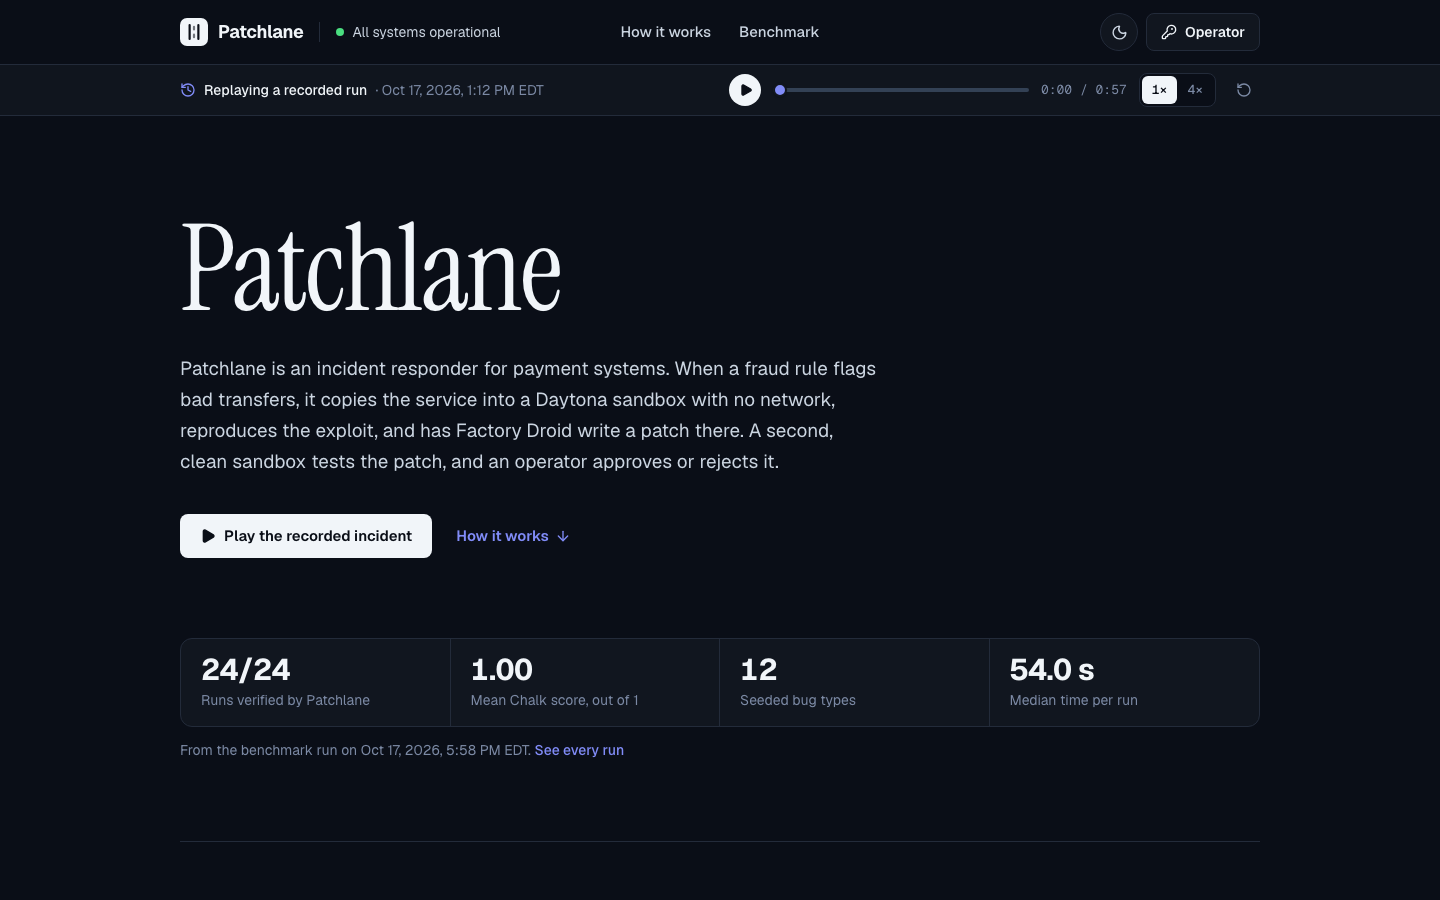
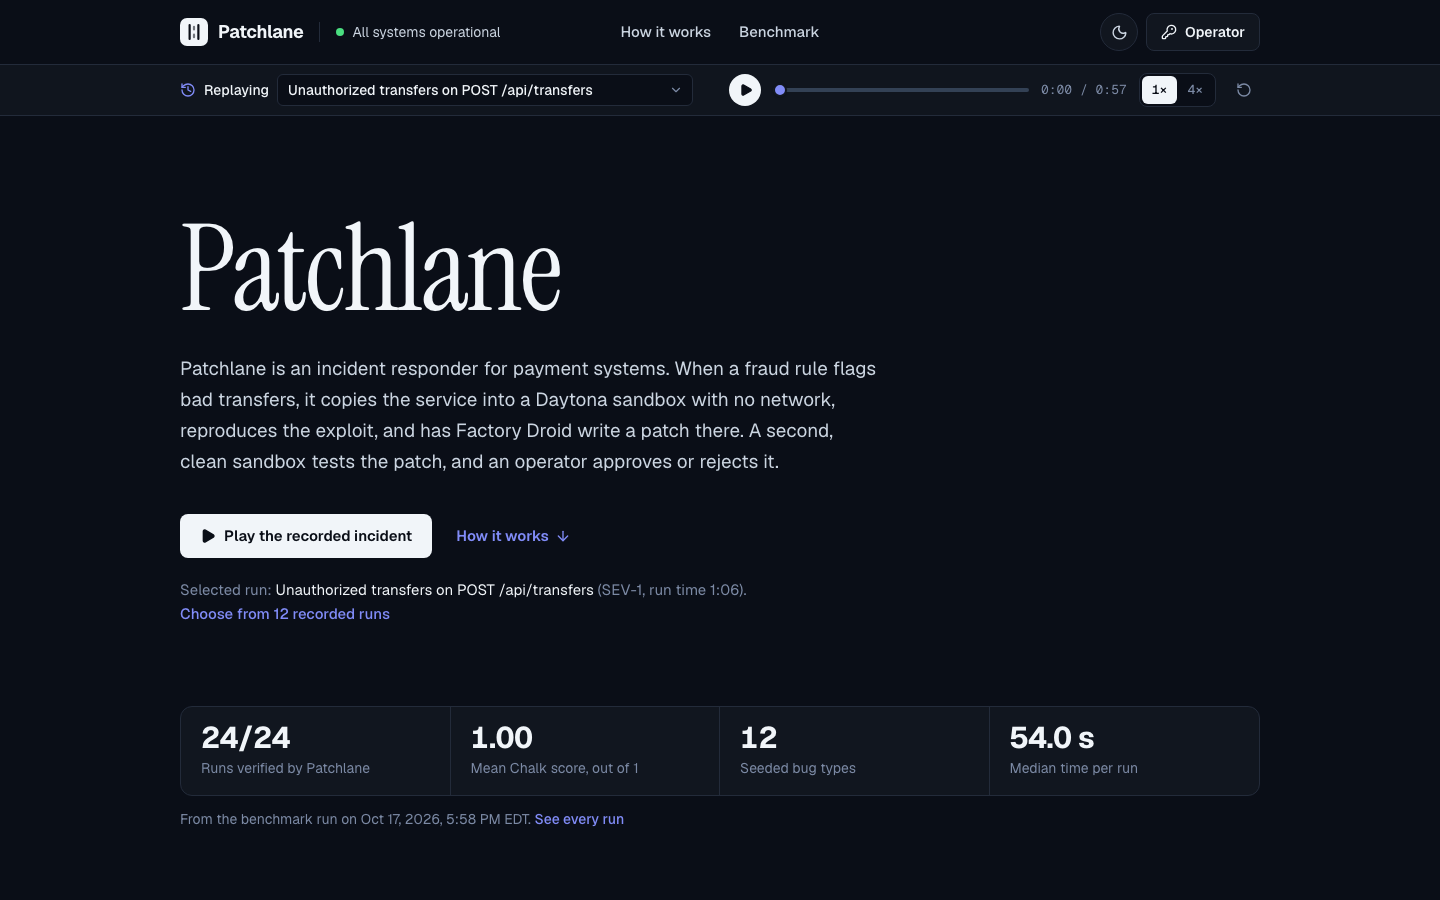
Update the README for two-bug incidents and retake its screenshots
The README now covers the 34 single bugs and 499 allowed pairs, how
validate_pairs.py decides which pairs are allowed, the real-run results
for the extra variants (43 of 44 verified) and pairs (12 of 12), and the
token check at sign-in. New screenshots show the operator builder with
two bugs chosen and the list of recorded runs; the landing screenshots
are retaken from the live site.

diff --git a/README.md b/README.md
@@ -158,23 +158,32 @@ Droid only sees the symptom, the evidence lines and the failing test. Seven of t
 
 </details>
 
-The twelve alternative ways of breaking these safeguards (see [Build your own incident](#build-your-own-incident)) went through the same pipeline twice each, without Chalk scoring: 24 of 24 verified, every fix in the right file, median 58.1 s. Separately, 10 back-to-back runs of the full live pipeline through the API all reached approval, with a median of 55 s.
+Beyond the original twelve bugs, there are 22 other ways to break the same safeguards (see [Build your own incident](#build-your-own-incident)). Each went through the same pipeline twice without Chalk scoring. 43 of the 44 runs verified with the fix in the right file. The other stopped when a Daytona command hung for more than 125 seconds. A sample of 12 two-bug pairs verified 12 of 12, with a median of 68.8 s; in every pair Droid fixed both files. Separately, 10 back-to-back runs of the full live pipeline through the API all reached approval, with a median of 55 s.
 
 ### Build your own incident
 
-Judges at the table can also set up the incident themselves. In operator mode the dashboard has two controls:
+Judges at the table can set up the incident themselves. In operator mode the dashboard has a small builder, and every control in it is a dropdown, a radio button or a checkbox:
 
-1. **Safeguard to break**, a dropdown of the twelve rules the bank service enforces, such as "A customer can only move money out of accounts they own" or "A declined transfer changes no balances".
-2. **How it breaks**, radio buttons with one to three ways that rule can fail, for example "The ownership check is removed" or "The check compares the account with its own owner".
+1. **Safeguard to break**: one of the twelve rules the bank service enforces, such as "A customer can only move money out of accounts they own" or "A declined transfer changes no balances".
+2. **How it breaks**: one to five ways that rule can fail. For the transfer limit, the choices are that the limit compares dollars against cents, that the cap is scaled to $50,000 or to $500,000, that the check is never called, or that it is given the fee as the amount.
+3. **Break a second safeguard too**: a checkbox that adds a second safeguard and a second way it breaks, so Droid has two unrelated bugs to find in one incident.
 
-That gives 24 combinations. Each one is a small, fixed edit to the real source, and none of them takes free text. Patchlane uploads the broken service to a fresh sandbox and Droid gets only the alert and the evidence, never the label the judge picked. Patchlane then runs the whole pipeline live, and the judge can watch the same sandbox ID appear in the Daytona dashboard.
+<p align="center">
+  <picture>
+    <source media="(prefers-color-scheme: dark)" srcset="docs/builder-dark.png" />
+    <img src="docs/builder-light.png" width="760" alt="The operator builder with two bugs chosen: idempotency keys are never saved, and the fee quote truncates the fee. Below it, each safeguard's Chalk benchmark result and a note that Chalk hasn't scored the combination." />
+  </picture>
+</p>
+
+That's 34 single bugs and 499 pairs. Each choice is a small, fixed edit to the real source. Patchlane uploads the broken service to a fresh sandbox and Droid gets only the alerts and the evidence, never the labels the judge picked. Patchlane then runs the whole pipeline live, and the judge can watch the same sandbox ID appear in the Daytona dashboard. The builder also shows the Chalk benchmark result for each chosen safeguard. Chalk doesn't score live runs, and the dashboard says so next to the verdict.
 
 The choices are locked down and tested:
 
-- `POST /api/demo/trigger` accepts exactly `{caseId, variantId}`. Extra fields, wrong types and malformed ids get a 422, and unknown ids get a 404. Neither one touches the current incident.
-- Operator actions run one at a time, so a double-clicked Trigger or Approve gets a 409 and changes nothing.
-- `demo/validate_cases.py` checks every combination before it can be offered. The clean service has to pass and the broken one has to fail the incident test and at least one held-out test. Each edit has to hit exactly one spot in one file under `bank_service/`, and the result has to parse. No label or root cause may appear anywhere in what gets uploaded.
-- [`backend/tests/test_customization.py`](backend/tests/test_customization.py) runs 160 tests over all of this. It covers every combination's sandbox tree and Droid prompt, about twenty malformed requests, the double clicks, a reset in the middle of a run, and each of the twelve published recordings, which must be complete, resolved, verified and free of secrets.
+- `POST /api/demo/trigger` accepts exactly `{caseId, variantId, secondCaseId, secondVariantId}`. Extra fields, wrong types and malformed ids get a 422, unknown ids get a 404, and a pair outside the allowed list gets a 422. None of these touches the current incident.
+- Operator actions run one at a time, so a double-clicked Trigger or Approve gets a 409 and changes nothing. The sign-in dialog checks the operator token with the server first and says plainly when it is incorrect.
+- `demo/validate_cases.py` checks every single bug before it can be offered. The clean service has to pass and the broken one has to fail the incident test and at least one held-out test. Each edit has to hit exactly one spot in one file under `bank_service/`, and the result has to parse. No label or root cause may appear anywhere in what gets uploaded.
+- `demo/validate_pairs.py` checks all 525 possible pairs. It merges the two bugs with `git merge-file`, and a pair is allowed only if both incident tests and at least one held-out test of each case fail, the transfer replay still behaves, and nothing about either bug reaches the upload. 499 pass. 14 conflict in the same lines and 12 hide each other, so those are never offered.
+- [`backend/tests/test_customization.py`](backend/tests/test_customization.py) runs 429 tests over all of this. It covers every single bug's sandbox tree and Droid prompt, a sample of pair trees and prompts, every refused pair, about twenty malformed requests, the double clicks, a reset in the middle of a run, and each of the twelve published recordings, which must be complete, resolved, verified and free of secrets.
 
 ---
 
@@ -271,7 +280,14 @@ The track asks for projects that protect people's money, identity and data. Patc
 
 ## Run it yourself
 
-The fastest way to see it is the [live site](https://patchlane.khayrul.com). Visitors can replay a recorded run of any of the twelve cases with its original timing. Running live incidents needs the operator token, and the operator can build any of the 24 incidents to run against real Daytona sandboxes and a real Droid session.
+The fastest way to see it is the [live site](https://patchlane.khayrul.com). Visitors can replay a recorded run of any of the twelve cases with its original timing. Running live incidents needs the operator token, and the operator can build any of the 34 single-bug or 499 two-bug incidents to run against real Daytona sandboxes and a real Droid session.
+
+<p align="center">
+  <picture>
+    <source media="(prefers-color-scheme: dark)" srcset="docs/gallery-dark.png" />
+    <img src="docs/gallery-light.png" width="760" alt="The list of twelve recorded runs on the live site, each with its incident, the safeguard it broke, severity and run time" />
+  </picture>
+</p>
 
 <details>
 <summary><strong>Run it locally</strong></summary>
@@ -332,9 +348,10 @@ cd backend && ../.venv/bin/python -m app.benchmark.run --cases all --runs 2 --pa
 <summary><strong>Tests</strong></summary>
 
 ```bash
-cd backend && ../.venv/bin/python -m pytest -q          # 228 tests
+cd backend && ../.venv/bin/python -m pytest -q          # 498 tests
 cd demo/bank-service && python -m pytest -q             # 22 tests
 python demo/validate_cases.py                           # clean code passes, each bug fails, nothing leaks into uploads
+python demo/validate_pairs.py                           # rebuilds demo/cases/pairs.json, about a minute
 ```
 
 CI runs the backend tests, the bank service tests, a frontend build and a Docker build on every push.
